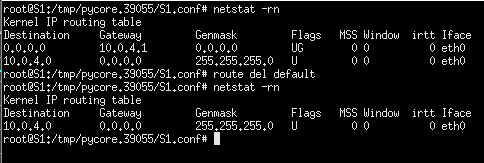
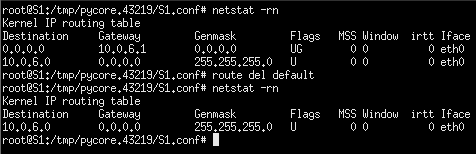
images update

Changed region(s): [[0.0, 0.0, 1.0, 1.0]]

diff --git a/report/TP2.PL6.G07.tex b/report/TP2.PL6.G07.tex
@@ -300,7 +300,7 @@ os laptops dos vários departamentos e o servidor do departamento A
 \begin{figure}[H]
     \centering 
     \includegraphics[width=\textwidth]{images/RextPing.png}
-    \caption{Ex.2 - Conectividade Router Rext - S1}
+    \caption{Ex.2 - Conectividade S1 - Router Rext}
     \label{fig:RextPing}
 \end{figure}
 
@@ -394,6 +394,13 @@ encaminhamento do servidor.}
     \includegraphics[width=\textwidth]{images/conectividadeDep.png}
     \caption{Ex.2 - Conectividade entre os departamentos e S1}
     \label{fig:conectividadeDep}
+\end{figure}
+
+\begin{figure}[H]
+    \centering 
+    \includegraphics[width=\textwidth]{images/tabS1.png}
+    \caption{Ex.2 - Tabela de encaminhamento}
+    \label{fig:tabS1}
 \end{figure}
 
 \section{Exercício 3}
